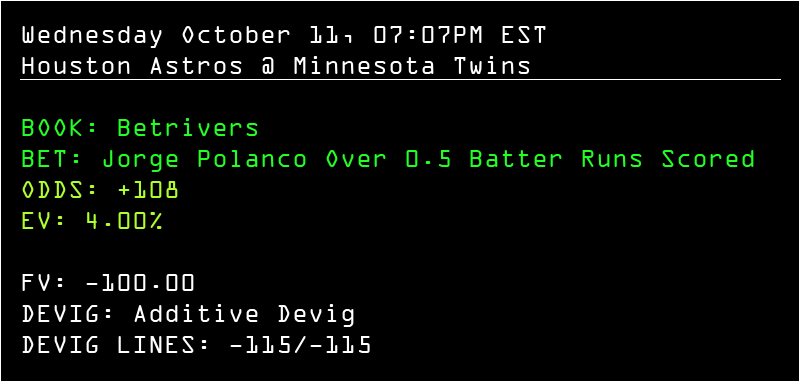
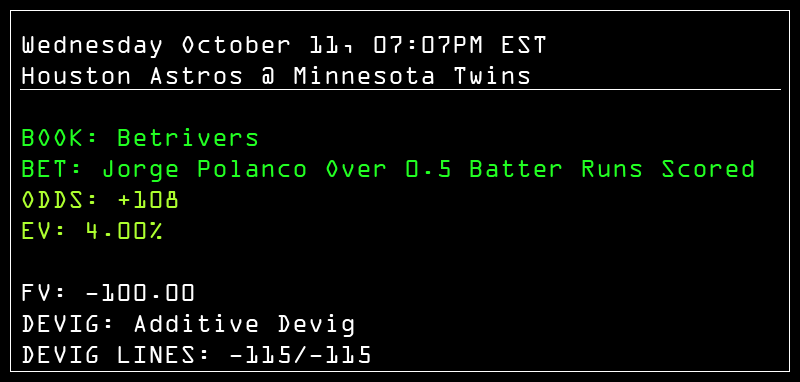
imagefinal stable

diff --git a/maketweet.py b/maketweet.py
@@ -36,21 +36,24 @@ def text_to_image(text, width=800, height=382, font_size=26):
                 line = word
         lines.append(line)
 
-    # Draw white border
+    # Draw white border with padding
     border_width = 1
-    draw.rectangle([(0, 0), (width-1, height-1)], outline=(255, 255, 255), width=border_width)
+    padding = 10  # Pixels from edge
+    draw.rectangle([(padding, padding), (width-padding-1, height-padding-1)], 
+                  outline=(255, 255, 255), 
+                  width=border_width)
 
     # Draw the text with different colors based on content
-    y = 20
+    y = 20 + padding  # Adjust starting y position to account for padding
     line_count = 0
     for line in lines:
-        # White text for the header/date lines
-        if "Wednesday" in line or "Houston" in line:
+        # First two lines are always header (date and teams)
+        if line_count < 2:
             draw.text((20, y), line, (255, 255, 255), font=font)
             line_count += 1
             # Draw separator line after the second line
             if line_count == 2:
-                separator_y = y + font_size + 2  # Position line just below the text
+                separator_y = y + font_size + 2
                 draw.line([(20, separator_y), (width-20, separator_y)], fill=(255, 255, 255), width=1)
         # Bright green text (LED-like) for BOOK and BET lines
         elif line.startswith("BOOK:") or line.startswith("BET:"):
@@ -89,7 +92,7 @@ def watermark_image(image_path, watermark_text, output_path):
     draw_watermark.text((0, 0), watermark_text, font=font, fill=(242, 242, 242, 128))  # Light grey, translucent
 
     # Rotate the watermark layer by 45 degrees and resize it
-    watermark_layer = watermark_layer.rotate(45, expand=1)  # Changed from -45 to 45
+    watermark_layer = watermark_layer.rotate(-45, expand=1)  # Changed from -45 to 45
     ratio = min(original_image.width / watermark_layer.width, original_image.height / watermark_layer.height)
     watermark_layer = watermark_layer.resize((int(watermark_layer.width * ratio), int(watermark_layer.height * ratio)))
 
